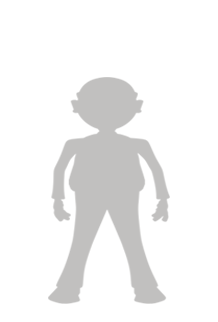
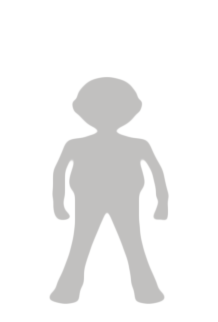
Added selected state for buttons, added new body images with transparent background

diff --git a/3dCharacter/code/AvatarLayer.m b/3dCharacter/code/AvatarLayer.m
@@ -17,10 +17,18 @@
 
 -(BOOL) handleTouch: (UITouch*) touch ofType: (uint) touchType;
 
-
 @end
 
 @implementation AvatarLayer
+{
+    NSMutableArray *modelButtons;
+    NSMutableArray *skinButtons;
+    NSMutableArray *hairButtons;
+    NSMutableArray *topButtons;
+    NSMutableArray *bottomButtons;
+    NSMutableArray *shoesButtons;
+    NSMutableArray *glassesButtons;
+}
 
 @synthesize avatarSettings = _avatarSettings;
 
@@ -202,11 +210,13 @@
 
 -(void) addModel
 {
+    modelButtons = [[NSMutableArray alloc] init];
     for (int i = 0; i < 6; i ++)
     {
         UIButtonTag    *btn = [self createButtonWithTag: [NSString stringWithFormat:@"cha%d",i]];
         btn.frame = CGRectMake(200 + 129 * i, 50, 129, 161);
         [[[CCDirector sharedDirector] openGLView] addSubview:btn];
+        [modelButtons addObject:btn];
     }
 }
 
@@ -214,9 +224,35 @@
 {
     UIButtonTag *btn = [UIButtonTag buttonWithType:UIButtonTypeCustom];
     [btn setImage:[UIImage imageNamed: name] forState:UIControlStateNormal];
+    [btn setImage:[self imageWithShadowForImage:[UIImage imageNamed: name]] forState: UIControlStateSelected];
     btn.tagSettings = [[FileToSettingsConverter instance] getSettings: name];
-    [btn addTarget:self action:@selector(buttonTouchedUp:) forControlEvents:UIControlEventTouchUpInside];
+    [btn addTarget:self action:@selector(buttonTouchedUp:) forControlEvents: UIControlEventTouchUpInside];
     return btn;
+}
+
+-(UIImage*)imageWithShadowForImage:(UIImage *)initialImage {
+    
+    CGColorSpaceRef colourSpace = CGColorSpaceCreateDeviceRGB();
+    CGContextRef shadowContext = CGBitmapContextCreate(NULL, initialImage.size.width + 10, initialImage.size.height + 10, CGImageGetBitsPerComponent(initialImage.CGImage), 0, colourSpace, kCGImageAlphaPremultipliedLast);
+    CGColorSpaceRelease(colourSpace);
+    
+    CGContextSetShadowWithColor(shadowContext, CGSizeMake(0,0), 15, [UIColor blueColor].CGColor);
+    CGContextDrawImage(shadowContext, CGRectMake(5, 5, initialImage.size.width, initialImage.size.height), initialImage.CGImage);
+    
+    CGImageRef shadowedCGImage = CGBitmapContextCreateImage(shadowContext);
+    CGContextRelease(shadowContext);
+    
+    UIImage * shadowedImage = [UIImage imageWithCGImage:shadowedCGImage];
+    CGImageRelease(shadowedCGImage);
+    
+    return shadowedImage;
+}
+
+-(void) unsetButtons: (NSMutableArray*) buttons
+{
+    for (UIButtonTag *btnTag in buttons) {
+        btnTag.choosed = NO;
+    }
 }
 
 -(void) buttonTouchedUp : (id)sender
@@ -227,35 +263,43 @@
         switch (btn.tagSettings.type) {
             case skin:
                 self.avatarSettings.skin = btn.tagSettings;
+                [self unsetButtons:skinButtons];
                 break;
             case body:
                 self.avatarSettings.body = btn.tagSettings;
+                [self unsetButtons:modelButtons];
                 break;
             case hair:
                 self.avatarSettings.hair = btn.tagSettings;
+                [self unsetButtons:hairButtons];
                 break;
             case top:
                 self.avatarSettings.top = btn.tagSettings;
+                [self unsetButtons:topButtons];
                 break;
             case bottom:
                 self.avatarSettings.bottom = btn.tagSettings;
+                [self unsetButtons:bottomButtons];
                 break;
             case shoes:
                 self.avatarSettings.shoes = btn.tagSettings;
+                [self unsetButtons:shoesButtons];
                 break;
             case glasses:
                 self.avatarSettings.glasses = btn.tagSettings;
-                
+                [self unsetButtons:glassesButtons];
             default:
                 break;
         }
+        btn.choosed = YES;
     }
 }
 
 - (void) addSkin
 {
     //Add Skin Color
-    
+    skinButtons = [[NSMutableArray alloc] init];
+
     UIImageView *skinTitleImg = [[UIImageView alloc] initWithFrame:CGRectMake(290,260,350,23)];
     skinTitleImg.image = [UIImage imageNamed:@"skinTitle"];
     [[[CCDirector sharedDirector] openGLView] addSubview:skinTitleImg];
@@ -267,6 +311,7 @@
         UIButtonTag    *btn = [self createButtonWithTag: [NSString stringWithFormat:@"skin%d",i+1]];
         btn.frame = CGRectMake(60 * i ,0,45,45);
         [scrollView addSubview:btn];
+        [skinButtons addObject:btn];
     }
     
     [scrollView setContentSize:CGSizeMake(60 * Avatar_SkinItemCount, 55)];
@@ -281,6 +326,7 @@
 - (void) addHair
 {
     //Add Hair Style
+    hairButtons = [[NSMutableArray alloc] init];
     
     UIImageView *hairTitleImg = [[UIImageView alloc] initWithFrame:CGRectMake(655,260,350,23)];
     hairTitleImg.image = [UIImage imageNamed:@"hairTitle"];
@@ -293,8 +339,8 @@
         UIButtonTag    *btn = [self createButtonWithTag:[NSString stringWithFormat:@"hairstyle%d",i+1]];
         btn.frame = CGRectMake(90 * i ,0,45,35);
         [scrollView addSubview:btn];
-    }
-    
+        [hairButtons addObject:btn];
+    }    
     
     [scrollView setBackgroundColor:[UIColor colorWithRed:247.0/255.0 green:247.0 / 255.0 blue:247.0 / 255.0 alpha:1.0]];
     scrollView.pagingEnabled = YES;
@@ -319,11 +365,11 @@
 - (void) addTopClothese
 {
     //Add Top Clothese
+    topButtons = [[NSMutableArray alloc] init];
     
     UIImageView *topClotheImg = [[UIImageView alloc] initWithFrame:CGRectMake(290,370,350,23)];
     topClotheImg.image = [UIImage imageNamed:@"clotheTitle"];
     [[[CCDirector sharedDirector] openGLView] addSubview:topClotheImg];
-    
     
     UIScrollView    *scrollView = [[UIScrollView alloc] initWithFrame:CGRectMake(290, 400, 350,110)];
     
@@ -332,8 +378,8 @@
         UIButtonTag    *btn = [self createButtonWithTag:[NSString stringWithFormat:@"shirt%d",i+1]];
         btn.frame = CGRectMake(88 * i ,0,80,100);
         [scrollView addSubview:btn];
+        [topButtons addObject:btn];
     }
-    
     
     [scrollView setBackgroundColor:[UIColor colorWithRed:247.0/255.0 green:247.0 / 255.0 blue:247.0 / 255.0 alpha:1.0]];
     scrollView.pagingEnabled = YES;
@@ -353,12 +399,12 @@
     pageControl.tag = Avatar_TopClotheScr + 1000;
     [[[CCDirector sharedDirector] openGLView] addSubview:pageControl];
     [pageControl release];
-
 }
 
 - (void) addBottomClothese
 {
     //Add Bottom Clothese
+    bottomButtons = [[NSMutableArray alloc] init];
     
     UIImageView *bottomClotheImg = [[UIImageView alloc] initWithFrame:CGRectMake(655,370,350,23)];
     bottomClotheImg.image = [UIImage imageNamed:@"bottomClotheTitle"];
@@ -372,6 +418,7 @@
         UIButtonTag    *btn = [self createButtonWithTag:[NSString stringWithFormat:@"trousers%d",i+1]];
         btn.frame = CGRectMake(90 * i ,0,80,100);
         [scrollView addSubview:btn];
+        [bottomButtons addObject:btn];
     }
     
     [scrollView setBackgroundColor:[UIColor colorWithRed:247.0/255.0 green:247.0 / 255.0 blue:247.0 / 255.0 alpha:1.0]];
@@ -392,13 +439,12 @@
     pageControl.tag = Avatar_BottomClotheScr + 1000;
     [[[CCDirector sharedDirector] openGLView] addSubview:pageControl];
     [pageControl release];
-
-
 }
 
 - (void) addShoes
 {
     //Add Shoe Img
+    shoesButtons = [[NSMutableArray alloc] init];
     
     UIImageView *shoeImg = [[UIImageView alloc] initWithFrame:CGRectMake(290,540,350,23)];
     shoeImg.image = [UIImage imageNamed:@"shoeTitle"];
@@ -411,6 +457,7 @@
         UIButtonTag    *btn = [self createButtonWithTag:[NSString stringWithFormat:@"shoes%d",i+1]];
         btn.frame = CGRectMake(90 * i ,0,75,80);
         [scrollView addSubview:btn];
+        [shoesButtons addObject: btn];
     }
     
     [scrollView setBackgroundColor:[UIColor colorWithRed:247.0/255.0 green:247.0 / 255.0 blue:247.0 / 255.0 alpha:1.0]];
@@ -436,6 +483,7 @@
 - (void) addGlasses
 {
     //Add glassImg
+    glassesButtons =[[NSMutableArray alloc] init];
     
     UIImageView *glassImg = [[UIImageView alloc] initWithFrame:CGRectMake(655,540,350,23)];
     glassImg.image = [UIImage imageNamed:@"glassTitle"];
@@ -449,8 +497,8 @@
         UIButtonTag *btn = [self createButtonWithTag:[NSString stringWithFormat:@"glasses%d",i+1]];
         btn.frame = CGRectMake(120 * i ,0,92,58);
         [scrollView addSubview:btn];
+        [glassesButtons addObject:btn];
     }
-    
     
     [scrollView setBackgroundColor:[UIColor colorWithRed:247.0/255.0 green:247.0 / 255.0 blue:247.0 / 255.0 alpha:1.0]];
     scrollView.pagingEnabled = YES;
@@ -470,7 +518,6 @@
     pageControl.tag = Avatar_GlassScr + 1000;
     [[[CCDirector sharedDirector] openGLView] addSubview:pageControl];
     [pageControl release];
-
 }
 
 /**
@@ -504,34 +551,6 @@
     UIPageControl   *pgControl = (UIPageControl*)[[[CCDirector sharedDirector] openGLView] viewWithTag:(scrollView.tag + 1000)];
     
     pgControl.currentPage = pagingVal;
-    
-//    switch (scrollView.tag)
-//    {
-//        case Avatar_HairScr:
-//        {
-//
-//            break;
-//        }
-//        case Avatar_TopClotheScr:
-//        {
-//            break;
-//        }
-//        case Avatar_BottomClotheScr:
-//        {
-//            break;
-//        }
-//        case Avatar_ShoeScr:
-//        {
-//            break;
-//        }
-//        case Avatar_GlassScr:
-//        {
-//            break;
-//        }
-//            
-//        default:
-//            break;
-//    }
 }
 
 

diff --git a/3dCharacter/code/UIButtonTag.m b/3dCharacter/code/UIButtonTag.m
@@ -10,7 +10,7 @@
 
 @implementation UIButtonTag
 
-@synthesize tagSettings = _tagSettings;
+@synthesize tagSettings = _tagSettings, choosed = _choosed;
 
 - (id)initWithFrame:(CGRect)frame
 {
@@ -19,6 +19,20 @@
         // Initialization code
     }
     return self;
+}
+
+-(void) setChoosed:(BOOL) theChoosed
+{
+    if (theChoosed != _choosed)
+    {
+        _choosed = theChoosed;
+        if (theChoosed)
+        {
+            self.selected = YES;            
+        }
+        else
+            self.selected = NO;
+    }
 }
 
 /*

diff --git a/3dCharacter/code/UIButtonTag.h b/3dCharacter/code/UIButtonTag.h
@@ -12,8 +12,10 @@
 @interface UIButtonTag : UIButton
 {
     @private ModelSettings* _tagSettings;
+    @private BOOL _choosed;
 }
 
 @property (atomic, retain ) ModelSettings* tagSettings;
+@property (atomic, setter = setChoosed:) BOOL choosed;
 
 @end
